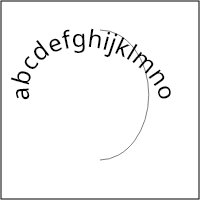
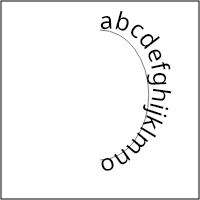
Apply the referenced path transform to text-on-path layout
Per the SVG 2 text-on-path rules the transform property on the referenced
path element applies to the path data before glyph layout. CompileTextPath
sampled the raw d attribute, so a transformed reference path rendered its
stroke in one place and carried its glyphs in another (the
structure/transform-origin/on-text-path corpus case, whose divergence had
been goldened during the structure sweep instead of quarantined).

SvgPathSampler now takes an optional matrix: curve math stays in raw path
space (arcs keep their endpoint parameterization under any affine map),
sample positions go through the full matrix, tangent directions through
its linear part, and arc lengths are measured in transformed space; the
chord-length step estimates scale along. CompileTextPath resolves the
referenced path transform with the renderer helpers (animated value
first, so SMIL-transformed reference paths re-lay the text each
structural tick) and the referenced-content transform-origin overload,
with a fill-box reference computed from the raw sample bounds.

Pinned by sampler tests (rotated samples and tangents, transformed-space
lengths under non-uniform scale) and a render test with a scaled and
rotated reference path. The two corpus cases covering this feature now
match their resvg references and are regoldened as genuine passes.

Changed region(s): [[0.15, 0.06, 0.87, 0.87], [0.06, 0.27, 0.18, 0.51]]

diff --git a/src/Avalonia.Svg/Parsing/SvgPathSampler.cs b/src/Avalonia.Svg/Parsing/SvgPathSampler.cs
@@ -53,6 +53,10 @@ internal readonly struct SvgPathVertex
 /// adapts the subdivision to the curve's length: text-on-path takes both the
 /// position and the tangent from the flat chords, so a chord must stay well
 /// below a glyph advance even when a single command spans a whole circle.
+/// An optional transform (the referenced path's own <c>transform</c>, per the
+/// SVG 2 text-on-path rules) applies to the sampled output: curve math runs in
+/// raw path space, positions map through the full matrix, tangent directions
+/// through its linear part, and arc lengths are measured in transformed space.
 /// </summary>
 internal sealed class SvgPathSampler : IGeometryContext
 {
@@ -73,14 +77,30 @@ internal sealed class SvgPathSampler : IGeometryContext
     private readonly List<double> _lengths = new();
     private readonly List<SvgPathVertex> _vertices = new();
 
+    private readonly Matrix _transform;
+    private readonly bool _hasTransform;
+
     private Point _current;
     private Point _subpathStart;
     private int _subpathFirstVertex = -1;
     private Vector? _pendingIn;
+    private double _minX = double.PositiveInfinity;
+    private double _minY = double.PositiveInfinity;
+    private double _maxX = double.NegativeInfinity;
+    private double _maxY = double.NegativeInfinity;
+
+    private SvgPathSampler(Matrix transform)
+    {
+        _transform = transform;
+        _hasTransform = !transform.IsIdentity;
+    }
 
     public static SvgPathSampler Parse(ReadOnlySpan<char> data)
+        => Parse(data, Matrix.Identity);
+
+    public static SvgPathSampler Parse(ReadOnlySpan<char> data, Matrix transform)
     {
-        var sampler = new SvgPathSampler();
+        var sampler = new SvgPathSampler(transform);
         try
         {
             SvgPathParser.Parse(data, sampler);
@@ -96,6 +116,11 @@ internal sealed class SvgPathSampler : IGeometryContext
     public IReadOnlyList<SvgPathVertex> Vertices => _vertices;
 
     public double TotalLength => _lengths.Count > 0 ? _lengths[_lengths.Count - 1] : 0;
+
+    /// <summary>The bounding box of the sampled (transformed) geometry.</summary>
+    public Rect Bounds => _points.Count == 0
+        ? default
+        : new Rect(new Point(_minX, _minY), new Point(_maxX, _maxY));
 
     /// <summary>Samples the position and tangent angle at an arc-length distance.</summary>
     public bool TryGetPointAtLength(double length, out Point position, out double angle)
@@ -143,8 +168,37 @@ internal sealed class SvgPathSampler : IGeometryContext
     private static double PointDistance(Point from, Point to)
         => new Vector(to.X - from.X, to.Y - from.Y).Length;
 
+    private Point TransformPoint(Point point)
+        => _hasTransform ? point.Transform(_transform) : point;
+
+    private Vector? TransformDirection(Vector? direction)
+    {
+        if (!_hasTransform || direction is not { } raw)
+            return direction;
+
+        var v = new Vector(
+            raw.X * _transform.M11 + raw.Y * _transform.M21,
+            raw.X * _transform.M12 + raw.Y * _transform.M22);
+        var length = v.Length;
+        return length > 1e-9 ? v / length : null;
+    }
+
+    /// <summary>An upper-bound scale factor of the transform's linear part.</summary>
+    private double TransformScale()
+        => !_hasTransform
+            ? 1.0
+            : Math.Max(
+                new Vector(_transform.M11, _transform.M12).Length,
+                new Vector(_transform.M21, _transform.M22).Length);
+
     private void AddSamplePoint(Point point)
     {
+        point = TransformPoint(point);
+        _minX = Math.Min(_minX, point.X);
+        _minY = Math.Min(_minY, point.Y);
+        _maxX = Math.Max(_maxX, point.X);
+        _maxY = Math.Max(_maxY, point.Y);
+
         if (_points.Count == 0)
         {
             _points.Add(point);
@@ -166,6 +220,12 @@ internal sealed class SvgPathSampler : IGeometryContext
 
     private void CompleteSegment(Point end, Vector? startDirection, Vector? endDirection)
     {
+        // Directions are computed in raw path space; vertices store the
+        // transformed output. The raw end point stays current for the next
+        // segment's math.
+        startDirection = TransformDirection(startDirection);
+        endDirection = TransformDirection(endDirection);
+
         // Patch the previous vertex's out-direction (it was added before the
         // segment's direction was known).
         if (_vertices.Count > 0)
@@ -176,7 +236,7 @@ internal sealed class SvgPathSampler : IGeometryContext
         }
 
         _pendingIn = endDirection;
-        AddVertex(end, null);
+        AddVertex(TransformPoint(end), null);
         _current = end;
     }
 
@@ -186,7 +246,7 @@ internal sealed class SvgPathSampler : IGeometryContext
         _subpathFirstVertex = _vertices.Count;
         _pendingIn = null;
         AddSamplePoint(startPoint);
-        AddVertex(startPoint, null);
+        AddVertex(TransformPoint(startPoint), null);
     }
 
     public void LineTo(Point point, bool isStroked = true)
@@ -199,10 +259,11 @@ internal sealed class SvgPathSampler : IGeometryContext
     public void CubicBezierTo(Point controlPoint1, Point controlPoint2, Point endPoint, bool isStroked = true)
     {
         var p0 = _current;
-        // The control polygon length bounds the curve length from above.
+        // The control polygon length bounds the curve length from above;
+        // measured in output space so the chord target survives scaling.
         var steps = StepsForLength(
-            PointDistance(p0, controlPoint1) + PointDistance(controlPoint1, controlPoint2)
-            + PointDistance(controlPoint2, endPoint));
+            (PointDistance(p0, controlPoint1) + PointDistance(controlPoint1, controlPoint2)
+             + PointDistance(controlPoint2, endPoint)) * TransformScale());
         for (var i = 1; i <= steps; i++)
         {
             var t = (double)i / steps;
@@ -222,7 +283,8 @@ internal sealed class SvgPathSampler : IGeometryContext
     public void QuadraticBezierTo(Point controlPoint, Point endPoint, bool isStroked = true)
     {
         var p0 = _current;
-        var steps = StepsForLength(PointDistance(p0, controlPoint) + PointDistance(controlPoint, endPoint));
+        var steps = StepsForLength(
+            (PointDistance(p0, controlPoint) + PointDistance(controlPoint, endPoint)) * TransformScale());
         for (var i = 1; i <= steps; i++)
         {
             var t = (double)i / steps;
@@ -291,7 +353,7 @@ internal sealed class SvgPathSampler : IGeometryContext
             return length > 1e-9 ? v / length : new Vector(1, 0);
         }
 
-        var steps = StepsForLength(Math.Abs(delta) * Math.Max(rx, ry));
+        var steps = StepsForLength(Math.Abs(delta) * Math.Max(rx, ry) * TransformScale());
         for (var i = 1; i <= steps; i++)
             AddSamplePoint(At(theta1 + delta * i / steps));
 
@@ -313,7 +375,7 @@ internal sealed class SvgPathSampler : IGeometryContext
                 // trailing duplicate, so 'auto' markers bisect the closure.
                 var first = _vertices[_subpathFirstVertex];
                 _vertices[_subpathFirstVertex] = new SvgPathVertex(
-                    first.Position, direction, first.OutDirection);
+                    first.Position, TransformDirection(direction), first.OutDirection);
                 _vertices.RemoveAt(_vertices.Count - 1);
             }
 

diff --git a/tests/Avalonia.Svg.UnitTests/SvgPathSamplerTests.cs b/tests/Avalonia.Svg.UnitTests/SvgPathSamplerTests.cs
@@ -113,6 +113,46 @@ public class SvgPathSamplerTests
     }
 
     [Fact]
+    public void Transform_Rotates_Samples_And_Tangents()
+    {
+        // The referenced path's transform applies to the sampled output:
+        // positions through the full matrix, tangents through its linear part.
+        var sampler = SvgPathSampler.Parse("M 0 0 L 100 0".AsSpan(), Matrix.CreateRotation(Math.PI / 2));
+
+        Assert.Equal(100, sampler.TotalLength, 9);
+        Assert.True(sampler.TryGetPointAtLength(50, out var point, out var angle));
+        Assert.Equal(0, point.X, 6);
+        Assert.Equal(50, point.Y, 6);
+        Assert.Equal(Math.PI / 2, angle, 6);
+
+        var vertex = sampler.Vertices[0];
+        Assert.NotNull(vertex.OutDirection);
+        Assert.Equal(0, vertex.OutDirection!.Value.X, 6);
+        Assert.Equal(1, vertex.OutDirection.Value.Y, 6);
+    }
+
+    [Fact]
+    public void Transform_Scales_Measured_Lengths()
+    {
+        // Non-uniform scale: a semicircle of radius 50 squashed to half
+        // height. The arc length is measured in transformed space — the
+        // ellipse perimeter bounds are π·b·... loosely; assert it lands
+        // between the squashed and unsquashed semicircle lengths.
+        var sampler = SvgPathSampler.Parse(
+            "M 0 0 A 50 50 0 0 1 100 0".AsSpan(), Matrix.CreateScale(1, 0.5));
+
+        Assert.InRange(sampler.TotalLength, Math.PI * 50 * 0.5, Math.PI * 50);
+
+        // The samples lie on the squashed ellipse: x in [0,100], y in [-25,0].
+        for (var s = 0.0; s < sampler.TotalLength; s += 2)
+        {
+            Assert.True(sampler.TryGetPointAtLength(s, out var point, out _));
+            Assert.InRange(point.X, -0.01, 100.01);
+            Assert.InRange(point.Y, -25.01, 0.01);
+        }
+    }
+
+    [Fact]
     public void Vertices_Carry_Tangent_Directions()
     {
         var sampler = SvgPathSampler.Parse("M 0 0 L 10 0 L 10 10".AsSpan());

diff --git a/tests/Avalonia.Svg.RenderTests/TextAndMarkerRenderTests.cs b/tests/Avalonia.Svg.RenderTests/TextAndMarkerRenderTests.cs
@@ -70,6 +70,28 @@ public class TextAndMarkerRenderTests : SvgRenderTestBase
     }
 
     [Fact]
+    public async Task Text_On_A_Transformed_Path()
+    {
+        // The referenced path's own transform + transform-origin apply to the
+        // glyph layout, so the text rides the path exactly where it renders —
+        // including a non-uniform scale, which reshapes the arc.
+        var target = new SvgHost(
+            $"""
+            <svg xmlns="http://www.w3.org/2000/svg" width="200" height="200" font-family="{TestFont}">
+              <rect width="200" height="200" fill="white"/>
+              <path id="bent" d="M 30 100 A 70 70 0 0 1 170 100" fill="none" stroke="#cccccc"
+                    transform="scale(1 0.6) rotate(25)" transform-origin="center"/>
+              <text font-size="14" fill="darkblue">
+                <textPath href="#bent">follow the line</textPath>
+              </text>
+            </svg>
+            """);
+
+        await RenderToFile(target);
+        CompareImages();
+    }
+
+    [Fact]
     public async Task Text_On_Path()
     {
         var target = new SvgHost(

diff --git a/src/Avalonia.Svg/Compilation/SvgText.cs b/src/Avalonia.Svg/Compilation/SvgText.cs
@@ -1266,7 +1266,21 @@ internal static class SvgText
             return;
         }
 
-        var sampler = SvgPathSampler.Parse(data.AsSpan());
+        // The referenced path's own transform (and transform-origin) applies
+        // to the path data before layout, per the SVG 2 text-on-path rules —
+        // the rendered path and the glyphs riding it must agree.
+        var pathTransform = Matrix.Identity;
+        if (SvgCompiler.GetTransformValue(pathElement) is { } transformValue
+            && SvgCompiler.TryParseTransformValue(transformValue, out var parsedTransform))
+        {
+            var fillBox = pathElement.GetStyleOrAttribute("transform-box") == "fill-box"
+                ? SvgPathSampler.Parse(data.AsSpan()).Bounds
+                : default;
+            pathTransform = SvgCompiler.ApplyTransformOrigin(
+                pathElement, parsedTransform, new Rect(style.Viewport), fillBox);
+        }
+
+        var sampler = SvgPathSampler.Parse(data.AsSpan(), pathTransform);
         if (sampler.TotalLength <= 0)
             return;
 

diff --git a/src/Avalonia.Svg/Compilation/SvgCompiler.cs b/src/Avalonia.Svg/Compilation/SvgCompiler.cs
@@ -474,7 +474,7 @@ internal static class SvgCompiler
     /// property (style attribute or stylesheet), then the presentation
     /// attribute.
     /// </summary>
-    private static string? GetTransformValue(SvgElement element)
+    internal static string? GetTransformValue(SvgElement element)
         => element.GetAnimatedValue("transform")
            ?? element.GetStyleProperty("transform")
            ?? element.GetAttribute("transform");
@@ -483,7 +483,7 @@ internal static class SvgCompiler
     /// Parses a transform list; the CSS property form carries <c>deg</c> and
     /// <c>px</c> units the attribute grammar doesn't, which normalize away.
     /// </summary>
-    private static bool TryParseTransformValue(string value, out Matrix matrix)
+    internal static bool TryParseTransformValue(string value, out Matrix matrix)
     {
         if (SvgTransformParser.TryParse(value.AsSpan(), out matrix))
             return true;